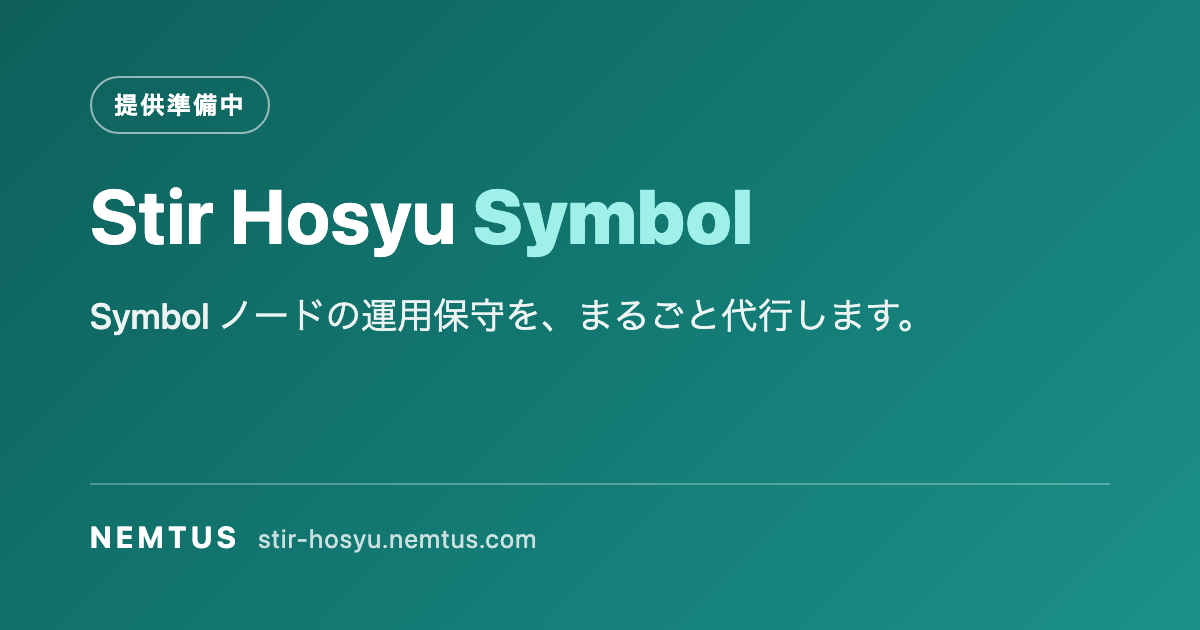
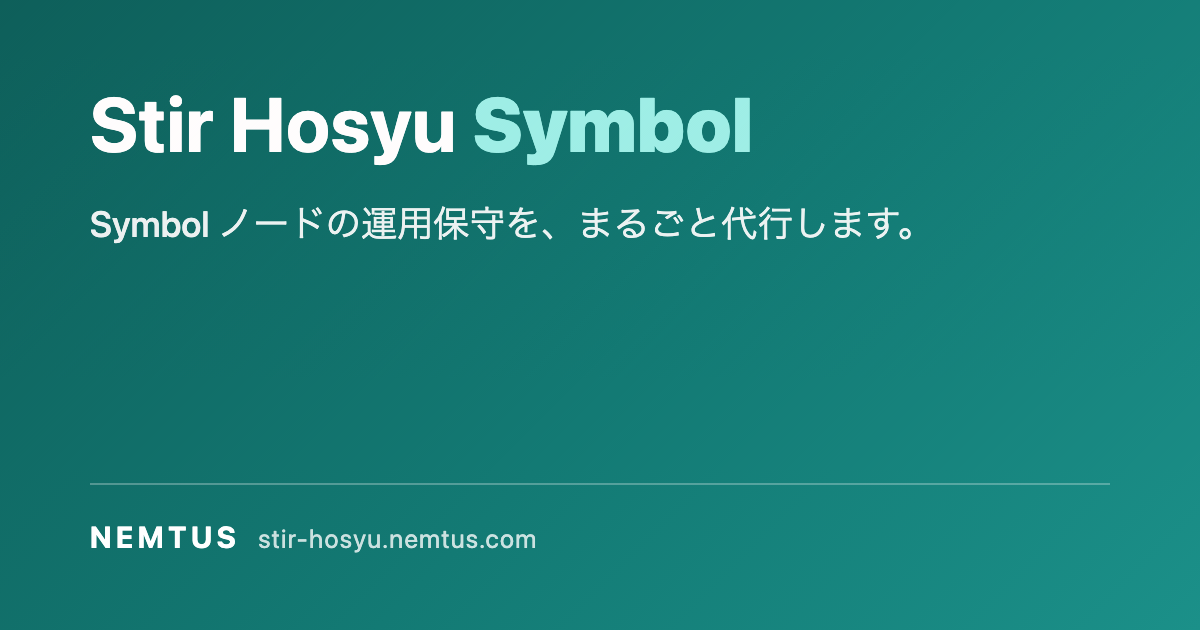
feat(stir-hosyu-lp): offer only the annual hosting plan, with tax-inclusive prices
NEMTUS will offer the hosting plan on annual billing only, so the page now
describes that single offer:

- Drop the "preparing to launch" notice, the hero badge and the matching
  sentence in the meta/OG descriptions, and the pricing disclaimer that
  deferred the final terms.
- Drop the pay-per-reward plan and the hosting plan's monthly prices,
  together with the "one month off on an annual contract" note that only
  made sense next to them.
- Drop the Symbol 8GB and Symbol 64GB node configurations.
- Label the node-fee column "年額（税込）" and the maintenance fee
  "年額 181,500円（税込）"; the section lead states that all prices
  include tax.
- Fold the former "both plans" notes into the single plan card, and
  remove the CSS for the plan grid, notice, badge and disclaimer.
- Remove the badge from the OG card template and the rendered ogp.png.

Changed region(s): [[0.0617, 0.3016, 0.7708, 0.4222], [0.0617, 0.1206, 0.6475, 0.2714], [0.0617, 0.4524, 0.7708, 0.5429]]

diff --git a/apps/stir-hosyu-lp/public/index.html b/apps/stir-hosyu-lp/public/index.html
@@ -6,7 +6,7 @@
     <title>Stir Hosyu Symbol | Symbol ノード保守代行サービス | NEMTUS</title>
     <meta
       name="description"
-      content="Stir Hosyu Symbol は、お客様に代行して Symbol ブロックチェーンのノードの運用保守を行うサービスです。秘密鍵をお預かりせず、初期費用もかかりません。NEMTUS での提供を準備中です。"
+      content="Stir Hosyu Symbol は、お客様に代行して Symbol ブロックチェーンのノードの運用保守を行うサービスです。秘密鍵をお預かりせず、初期費用もかかりません。"
     />
     <link rel="canonical" href="https://stir-hosyu.nemtus.com/" />
     <meta property="og:type" content="website" />
@@ -17,7 +17,7 @@
     />
     <meta
       property="og:description"
-      content="お客様に代行して Symbol ノードの運用保守を行うサービス。秘密鍵はお預かりしません。NEMTUS での提供を準備中です。"
+      content="お客様に代行して Symbol ノードの運用保守を行うサービス。秘密鍵はお預かりしません。"
     />
     <meta property="og:site_name" content="NEMTUS" />
     <meta property="og:locale" content="ja_JP" />
@@ -66,7 +66,6 @@
     <main id="main">
       <section class="hero">
         <div class="container">
-          <p class="badge">提供準備中</p>
           <!--
             Each phrase is its own inline-block so a narrow screen breaks
             between them rather than mid-phrase (which would strand 「を、」 at
@@ -79,10 +78,6 @@
           <p class="lead">
             Stir Hosyu Symbol は、お客様に代行して Symbol
             ブロックチェーンのノードの構築・運用・保守を行うサービスです。サーバーの知識がなくても、ハーベスト報酬やスーパーノード報酬の受け取りを目指せます。
-          </p>
-          <p class="notice">
-            本サービスは現在、<strong>NEMTUS での提供を準備中</strong
-            >です。提供開始の時期および最新の提供条件は、決まり次第このページでご案内します。
           </p>
           <div class="cta-row">
             <a class="btn btn--primary" href="mailto:support@nemtus.com">メールで問い合わせる</a>
@@ -125,9 +120,7 @@
             </li>
             <li class="card">
               <h3>初期費用はかかりません</h3>
-              <p>
-                初期費用なしでご利用いただけます。料金はプランに応じた月額（または年額）のみです。
-              </p>
+              <p>初期費用なしでご利用いただけます。料金はノード料と保守料の年額のみです。</p>
             </li>
           </ul>
         </div>
@@ -137,84 +130,47 @@
         <div class="container">
           <h2>料金プラン</h2>
           <p class="section-lead">
-            1ノードあたりのステーキング量に応じて、2つのプランからお選びいただけます。
+            ホスティングプランを年額でご提供しています。記載の料金はすべて税込です。
           </p>
 
-          <div class="plans">
-            <article class="plan">
-              <h3>ホスティングプラン</h3>
-              <p class="plan__target">
-                1ノードあたりのステーキング量<br /><b>0 〜 500万 XYM 未満</b>
-              </p>
-              <p>サーバーの性能に応じたノード料と、保守料の合計でご利用いただけます。</p>
+          <article class="plan">
+            <h3>ホスティングプラン</h3>
+            <p class="plan__target">
+              1ノードあたりのステーキング量<br /><b>0 〜 500万 XYM 未満</b>
+            </p>
+            <p>サーバーの性能に応じたノード料と、保守料の合計でご利用いただけます。</p>
 
-              <h4>ノード料</h4>
-              <div class="table-scroll">
-                <table>
-                  <caption class="visually-hidden">
-                    サーバー構成ごとのノード料（月額・年額）
-                  </caption>
-                  <thead>
-                    <tr>
-                      <th scope="col">構成</th>
-                      <th scope="col">月額</th>
-                      <th scope="col">年額</th>
-                    </tr>
-                  </thead>
-                  <tbody>
-                    <tr>
-                      <th scope="row">Symbol 8GB</th>
-                      <td>7,920円</td>
-                      <td>87,120円</td>
-                    </tr>
-                    <tr>
-                      <th scope="row">Symbol 24GB <span class="tag">最小構成</span></th>
-                      <td>13,200円</td>
-                      <td>145,200円</td>
-                    </tr>
-                    <tr>
-                      <th scope="row">Symbol 48GB <span class="tag tag--rec">推奨構成</span></th>
-                      <td>26,400円</td>
-                      <td>290,400円</td>
-                    </tr>
-                    <tr>
-                      <th scope="row">Symbol 64GB</th>
-                      <td>52,800円</td>
-                      <td>580,800円</td>
-                    </tr>
-                  </tbody>
-                </table>
-              </div>
+            <h4>ノード料</h4>
+            <div class="table-scroll">
+              <table>
+                <caption class="visually-hidden">
+                  サーバー構成ごとのノード料（年額・税込）
+                </caption>
+                <thead>
+                  <tr>
+                    <th scope="col">構成</th>
+                    <th scope="col">年額（税込）</th>
+                  </tr>
+                </thead>
+                <tbody>
+                  <tr>
+                    <th scope="row">Symbol 24GB <span class="tag">最小構成</span></th>
+                    <td>145,200円</td>
+                  </tr>
+                  <tr>
+                    <th scope="row">Symbol 48GB <span class="tag tag--rec">推奨構成</span></th>
+                    <td>290,400円</td>
+                  </tr>
+                </tbody>
+              </table>
+            </div>
 
-              <h4>保守料</h4>
-              <p class="price">月額 16,500円<span class="price__sub">／ 年額 181,500円</span></p>
-              <ul class="notes">
-                <li>年間契約の場合、1ヶ月分が割引となります。</li>
-                <li>初期費用はかかりません。</li>
-              </ul>
-            </article>
+            <h4>保守料</h4>
+            <p class="price">年額 181,500円<span class="price__sub">（税込）</span></p>
 
-            <article class="plan">
-              <h3>出来高プラン</h3>
-              <p class="plan__target">
-                1ノードあたりのステーキング量<br /><b>300万 〜 5,000万 XYM</b>
-              </p>
-              <p>
-                受け取ったブロック報酬に応じてお支払いいただくプランです。ノード料はかかりません。
-              </p>
-
-              <h4>保守料</h4>
-              <p class="price">ブロック報酬の 20%<span class="price__sub">（税込）</span></p>
-              <ul class="notes">
-                <li>毎月の保守料を、翌月末までに XYM でお支払いいただきます。</li>
-                <li>初期費用はかかりません。</li>
-              </ul>
-            </article>
-          </div>
-
-          <div class="common-notes">
-            <h4>両プラン共通</h4>
+            <h4>ご利用にあたって</h4>
             <ul class="notes">
+              <li>初期費用はかかりません。</li>
               <li>
                 ハーベスト報酬・ベネフィシャリー報酬・スーパーノード報酬は、お客様が指定したアドレスへ入るように設定します。
               </li>
@@ -222,11 +178,7 @@
                 委任ハーベストの設定に対応します。秘密鍵の保護のため、ローカルハーベストの設定には対応していません。
               </li>
             </ul>
-            <p class="disclaimer">
-              記載の料金は、現在提供されている Stir Hosyu Symbol の内容です。NEMTUS
-              での提供開始にあたっての最終的な料金・提供条件は、決まり次第このページで改めてご案内します。
-            </p>
-          </div>
+          </article>
         </div>
       </section>
 

diff --git a/apps/stir-hosyu-lp/public/assets/style.css b/apps/stir-hosyu-lp/public/assets/style.css
@@ -175,7 +175,7 @@ a:hover {
 }
 
 .hero h1 {
-  margin: 0.6rem 0 0;
+  margin: 0;
   font-size: clamp(1.55rem, 1.15rem + 2vw, 2.5rem);
 }
 
@@ -185,32 +185,10 @@ a:hover {
   display: inline-block;
 }
 
-.badge {
-  display: inline-block;
-  margin: 0;
-  padding: 0.3rem 0.85rem;
-  border-radius: 999px;
-  background: var(--accent);
-  color: #fff;
-  font-size: 0.8rem;
-  font-weight: 600;
-  letter-spacing: 0.06em;
-}
-
 .lead {
   max-width: 44rem;
   margin-top: 1.1rem;
   font-size: clamp(1rem, 0.95rem + 0.35vw, 1.15rem);
-}
-
-.notice {
-  max-width: 44rem;
-  margin-top: 1.2rem;
-  padding: 0.9rem 1.1rem;
-  border-left: 4px solid var(--accent);
-  border-radius: 0 var(--radius) var(--radius) 0;
-  background: var(--bg-alt);
-  font-size: 0.95rem;
 }
 
 .cta-row {
@@ -314,14 +292,9 @@ a:hover {
 
 /* ----------------------------------------------------------------- plans -- */
 
-.plans {
-  display: grid;
-  grid-template-columns: repeat(auto-fit, minmax(19rem, 1fr));
-  gap: 1.25rem;
-  margin-top: 1.5rem;
-}
-
 .plan {
+  max-width: 44rem;
+  margin-top: 1.5rem;
   padding: 1.5rem;
   border: 1px solid var(--border);
   border-radius: var(--radius);
@@ -400,8 +373,8 @@ td {
   text-align: left;
 }
 
-/* Keep the amounts intact, but let the spec column wrap — otherwise the three
-   columns cannot fit a 320px phone and the table is silently clipped. */
+/* Keep the amounts intact, but let the spec column wrap — otherwise the columns
+   cannot fit a 320px phone and the table is silently clipped. */
 thead th,
 td {
   white-space: nowrap;
@@ -437,8 +410,8 @@ td {
   color: var(--fg-muted);
 }
 
-/* On a phone the badge gets its own line and the cells tighten up, so all
-   three columns fit without the table being cut off. */
+/* On a phone the badge gets its own line and the cells tighten up, so the
+   columns fit without the table being cut off. */
 @media (max-width: 26rem) {
   th,
   td {
@@ -456,24 +429,6 @@ td {
   border-color: var(--accent);
   background: var(--accent-faint);
   color: var(--accent-strong);
-}
-
-.common-notes {
-  margin-top: 1.5rem;
-  padding: 1.25rem;
-  border: 1px solid var(--border);
-  border-radius: var(--radius);
-  background: var(--bg-alt);
-}
-
-.common-notes h4 {
-  margin-top: 0;
-}
-
-.disclaimer {
-  margin: 1rem 0 0;
-  font-size: 0.85rem;
-  color: var(--fg-muted);
 }
 
 /* --------------------------------------------------------------- contact -- */

diff --git a/apps/stir-hosyu-lp/ogp/template.html b/apps/stir-hosyu-lp/ogp/template.html
@@ -40,19 +40,8 @@
         overflow: hidden;
       }
 
-      .badge {
-        display: inline-block;
-        align-self: flex-start;
-        padding: 9px 22px;
-        border: 2px solid rgba(255, 255, 255, 0.55);
-        border-radius: 999px;
-        font-size: 24px;
-        font-weight: 600;
-        letter-spacing: 0.1em;
-      }
-
       h1 {
-        margin: 34px 0 0;
+        margin: 0;
         font-size: 76px;
         line-height: 1.25;
         letter-spacing: 0.01em;
@@ -93,7 +82,6 @@
     </style>
   </head>
   <body>
-    <span class="badge">提供準備中</span>
     <h1>Stir Hosyu <b>Symbol</b></h1>
     <p class="tagline">
       Symbol ノードの運用保守を、まるごと代行します。
